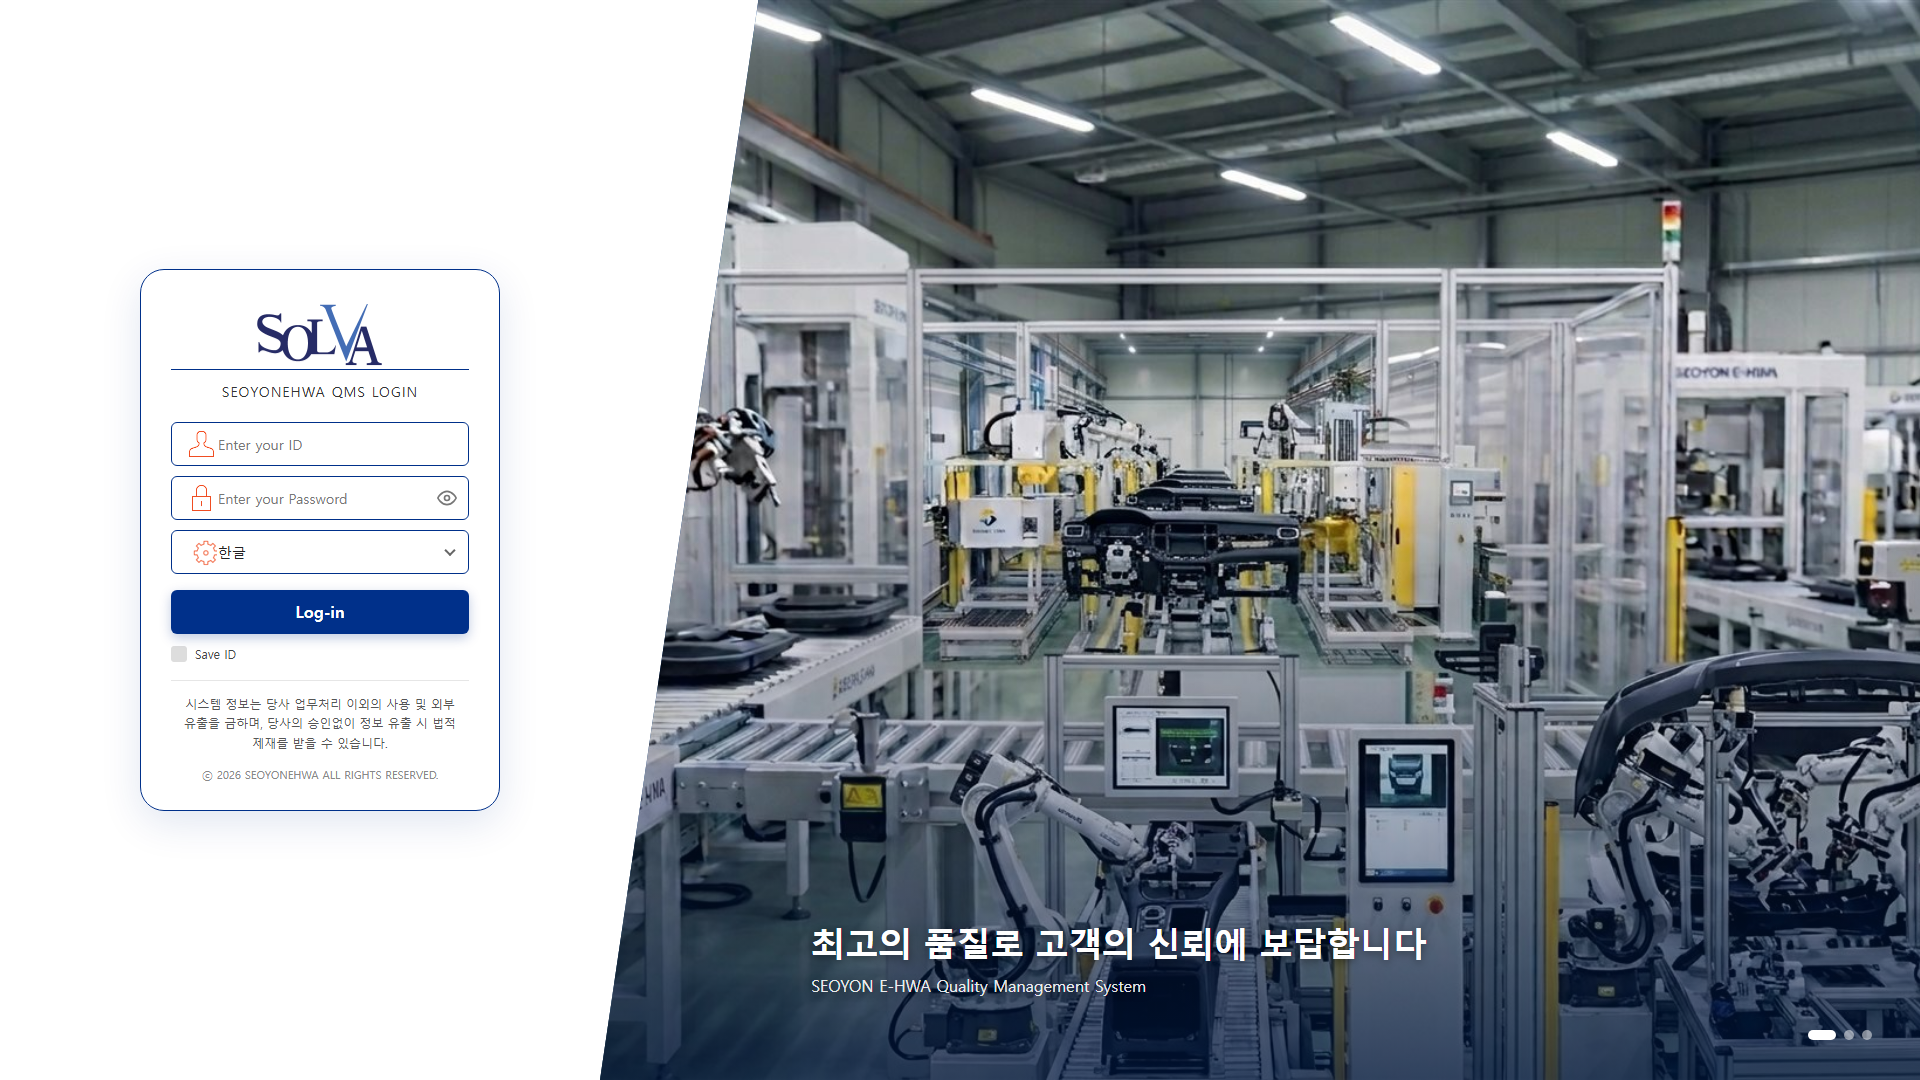
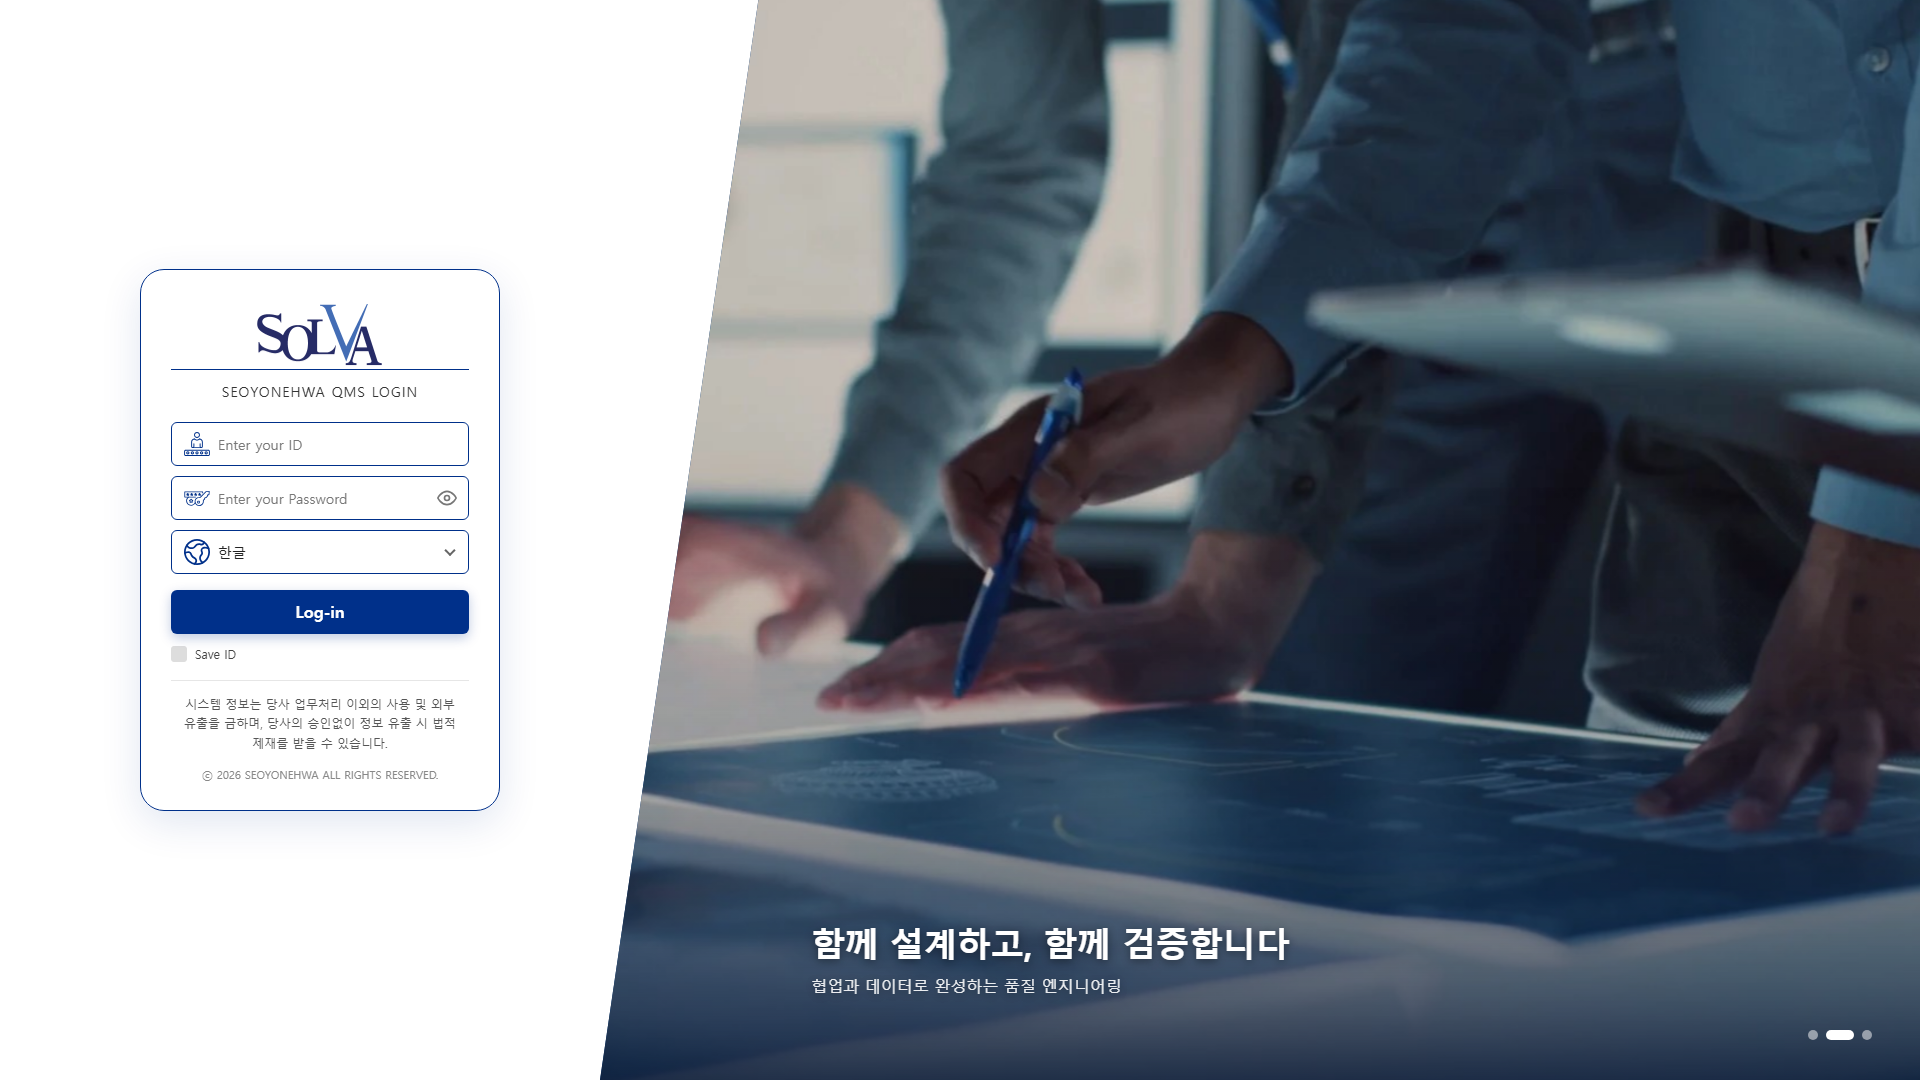
입력창 아이콘을 SVG(id/pw/lang) + CSS mask 방식으로 교체, 시안별 아이콘 색 지정

diff --git a/WebProjects/CommonScripts/Css/Login1.css b/WebProjects/CommonScripts/Css/Login1.css
@@ -13,6 +13,8 @@
     --colorNavy: #00367a;
     --colorOrange: #da5729;
     --slide-fade: 1.2s;        /* 크로스페이드 시간 */
+    --icon-color: #00308a;         /* 입력창 아이콘 색 */
+    --icon-color-focus: #da5729;   /* 입력 중 아이콘 색 */
 }
 
 html {
@@ -270,20 +272,37 @@ fieldset {
             box-shadow: 0 0 0 3px rgba(0, 48, 138, .15);
         }
 
+        /* 입력창 아이콘 : SVG 를 mask 로 씌우고 색은 --icon-color 로 지정 (아이콘 파일 색과 무관) */
+        fieldset .login_input::before {
+            content: "";
+            position: absolute;
+            left: 12px;
+            top: 50%;
+            width: 26px;
+            height: 26px;
+            transform: translateY(-50%);
+            background-color: var(--icon-color);
+            -webkit-mask: var(--icon) center / contain no-repeat;
+            mask: var(--icon) center / contain no-repeat;
+            transition: background-color .2s;
+            pointer-events: none;
+        }
+
+        fieldset .login_input:focus-within::before {
+            background-color: var(--icon-color-focus);
+        }
+
         fieldset .login_input.id {
-            background-image: url(/Images/Login_New_Images/ic_id.png);
+            --icon: url(/Images/Login_New_Images/id.svg);
         }
 
-        fieldset .login_input.pw {
-            background-image: url(/Images/Login_New_Images/ic_pw.png);
-        }
-
+        fieldset .login_input.pw,
         fieldset .login_input.otp {
-            background-image: url(/Images/Login_New_Images/ic_otp.png);
+            --icon: url(/Images/Login_New_Images/pw.svg);
         }
 
         fieldset .login_input.lang {
-            background-image: url(/Images/Login_New_Images/ic_lang.png);   /* ic_selectLang.png 의 톱니 부분만 잘라낸 32x32 아이콘 */
+            --icon: url(/Images/Login_New_Images/lang.svg);
         }
 
             /* 언어 선택 화살표 */

diff --git a/WebProjects/CommonScripts/Css/Login3.css b/WebProjects/CommonScripts/Css/Login3.css
@@ -19,6 +19,8 @@
     --image-w: 58%;             /* 좌측 이미지 영역 폭 */
     --form-w: 380px;            /* 로그인 폼 폭 */
     --slide-fade: 1.5s;
+    --icon-color: #9aa4b8;         /* 입력창 아이콘 색 */
+    --icon-color-focus: #ff6a3d;   /* 입력 중 아이콘 색 */
 }
 
 html {
@@ -298,20 +300,37 @@ fieldset {
             box-shadow: 0 0 0 3px rgba(255, 106, 61, .18);
         }
 
+        /* 입력창 아이콘 : SVG 를 mask 로 씌우고 색은 --icon-color 로 지정 (아이콘 파일 색과 무관) */
+        fieldset .login_input::before {
+            content: "";
+            position: absolute;
+            left: 13px;
+            top: 50%;
+            width: 26px;
+            height: 26px;
+            transform: translateY(-50%);
+            background-color: var(--icon-color);
+            -webkit-mask: var(--icon) center / contain no-repeat;
+            mask: var(--icon) center / contain no-repeat;
+            transition: background-color .2s;
+            pointer-events: none;
+        }
+
+        fieldset .login_input:focus-within::before {
+            background-color: var(--icon-color-focus);
+        }
+
         fieldset .login_input.id {
-            background-image: url(/Images/Login_New_Images/ic_id.png);
+            --icon: url(/Images/Login_New_Images/id.svg);
         }
 
-        fieldset .login_input.pw {
-            background-image: url(/Images/Login_New_Images/ic_pw.png);
-        }
-
+        fieldset .login_input.pw,
         fieldset .login_input.otp {
-            background-image: url(/Images/Login_New_Images/ic_otp.png);
+            --icon: url(/Images/Login_New_Images/pw.svg);
         }
 
         fieldset .login_input.lang {
-            background-image: url(/Images/Login_New_Images/ic_lang.png);
+            --icon: url(/Images/Login_New_Images/lang.svg);
         }
 
             fieldset .login_input.lang::after {

diff --git a/WebProjects/CommonScripts/Css/Login2.css b/WebProjects/CommonScripts/Css/Login2.css
@@ -12,6 +12,8 @@
     --colorNavy: #00367a;
     --colorOrange: #da5729;
     --slide-fade: 1.5s;        /* 크로스페이드 시간 */
+    --icon-color: #6b7a99;         /* 입력창 아이콘 색 */
+    --icon-color-focus: #00308a;   /* 입력 중 아이콘 색 */
 }
 
 html {
@@ -281,20 +283,37 @@ fieldset {
             box-shadow: 0 0 0 3px rgba(0, 48, 138, .12);
         }
 
+        /* 입력창 아이콘 : SVG 를 mask 로 씌우고 색은 --icon-color 로 지정 (아이콘 파일 색과 무관) */
+        fieldset .login_input::before {
+            content: "";
+            position: absolute;
+            left: 12px;
+            top: 50%;
+            width: 26px;
+            height: 26px;
+            transform: translateY(-50%);
+            background-color: var(--icon-color);
+            -webkit-mask: var(--icon) center / contain no-repeat;
+            mask: var(--icon) center / contain no-repeat;
+            transition: background-color .2s;
+            pointer-events: none;
+        }
+
+        fieldset .login_input:focus-within::before {
+            background-color: var(--icon-color-focus);
+        }
+
         fieldset .login_input.id {
-            background-image: url(/Images/Login_New_Images/ic_id.png);
+            --icon: url(/Images/Login_New_Images/id.svg);
         }
 
-        fieldset .login_input.pw {
-            background-image: url(/Images/Login_New_Images/ic_pw.png);
-        }
-
+        fieldset .login_input.pw,
         fieldset .login_input.otp {
-            background-image: url(/Images/Login_New_Images/ic_otp.png);
+            --icon: url(/Images/Login_New_Images/pw.svg);
         }
 
         fieldset .login_input.lang {
-            background-image: url(/Images/Login_New_Images/ic_lang.png);
+            --icon: url(/Images/Login_New_Images/lang.svg);
         }
 
             /* 언어 선택 화살표 */

diff --git a/docs/css/Login1.css b/docs/css/Login1.css
@@ -13,6 +13,8 @@
     --colorNavy: #00367a;
     --colorOrange: #da5729;
     --slide-fade: 1.2s;        /* 크로스페이드 시간 */
+    --icon-color: #00308a;         /* 입력창 아이콘 색 */
+    --icon-color-focus: #da5729;   /* 입력 중 아이콘 색 */
 }
 
 html {
@@ -270,20 +272,37 @@ fieldset {
             box-shadow: 0 0 0 3px rgba(0, 48, 138, .15);
         }
 
+        /* 입력창 아이콘 : SVG 를 mask 로 씌우고 색은 --icon-color 로 지정 (아이콘 파일 색과 무관) */
+        fieldset .login_input::before {
+            content: "";
+            position: absolute;
+            left: 12px;
+            top: 50%;
+            width: 26px;
+            height: 26px;
+            transform: translateY(-50%);
+            background-color: var(--icon-color);
+            -webkit-mask: var(--icon) center / contain no-repeat;
+            mask: var(--icon) center / contain no-repeat;
+            transition: background-color .2s;
+            pointer-events: none;
+        }
+
+        fieldset .login_input:focus-within::before {
+            background-color: var(--icon-color-focus);
+        }
+
         fieldset .login_input.id {
-            background-image: url(../images/ic_id.png);
+            --icon: url(../images/id.svg);
         }
 
-        fieldset .login_input.pw {
-            background-image: url(../images/ic_pw.png);
-        }
-
+        fieldset .login_input.pw,
         fieldset .login_input.otp {
-            background-image: url(../images/ic_otp.png);
+            --icon: url(../images/pw.svg);
         }
 
         fieldset .login_input.lang {
-            background-image: url(../images/ic_lang.png);   /* ic_selectLang.png 의 톱니 부분만 잘라낸 32x32 아이콘 */
+            --icon: url(../images/lang.svg);
         }
 
             /* 언어 선택 화살표 */

diff --git a/docs/css/Login3.css b/docs/css/Login3.css
@@ -19,6 +19,8 @@
     --image-w: 58%;             /* 좌측 이미지 영역 폭 */
     --form-w: 380px;            /* 로그인 폼 폭 */
     --slide-fade: 1.5s;
+    --icon-color: #9aa4b8;         /* 입력창 아이콘 색 */
+    --icon-color-focus: #ff6a3d;   /* 입력 중 아이콘 색 */
 }
 
 html {
@@ -298,20 +300,37 @@ fieldset {
             box-shadow: 0 0 0 3px rgba(255, 106, 61, .18);
         }
 
+        /* 입력창 아이콘 : SVG 를 mask 로 씌우고 색은 --icon-color 로 지정 (아이콘 파일 색과 무관) */
+        fieldset .login_input::before {
+            content: "";
+            position: absolute;
+            left: 13px;
+            top: 50%;
+            width: 26px;
+            height: 26px;
+            transform: translateY(-50%);
+            background-color: var(--icon-color);
+            -webkit-mask: var(--icon) center / contain no-repeat;
+            mask: var(--icon) center / contain no-repeat;
+            transition: background-color .2s;
+            pointer-events: none;
+        }
+
+        fieldset .login_input:focus-within::before {
+            background-color: var(--icon-color-focus);
+        }
+
         fieldset .login_input.id {
-            background-image: url(../images/ic_id.png);
+            --icon: url(../images/id.svg);
         }
 
-        fieldset .login_input.pw {
-            background-image: url(../images/ic_pw.png);
-        }
-
+        fieldset .login_input.pw,
         fieldset .login_input.otp {
-            background-image: url(../images/ic_otp.png);
+            --icon: url(../images/pw.svg);
         }
 
         fieldset .login_input.lang {
-            background-image: url(../images/ic_lang.png);
+            --icon: url(../images/lang.svg);
         }
 
             fieldset .login_input.lang::after {

diff --git a/docs/css/Login2.css b/docs/css/Login2.css
@@ -12,6 +12,8 @@
     --colorNavy: #00367a;
     --colorOrange: #da5729;
     --slide-fade: 1.5s;        /* 크로스페이드 시간 */
+    --icon-color: #6b7a99;         /* 입력창 아이콘 색 */
+    --icon-color-focus: #00308a;   /* 입력 중 아이콘 색 */
 }
 
 html {
@@ -281,20 +283,37 @@ fieldset {
             box-shadow: 0 0 0 3px rgba(0, 48, 138, .12);
         }
 
+        /* 입력창 아이콘 : SVG 를 mask 로 씌우고 색은 --icon-color 로 지정 (아이콘 파일 색과 무관) */
+        fieldset .login_input::before {
+            content: "";
+            position: absolute;
+            left: 12px;
+            top: 50%;
+            width: 26px;
+            height: 26px;
+            transform: translateY(-50%);
+            background-color: var(--icon-color);
+            -webkit-mask: var(--icon) center / contain no-repeat;
+            mask: var(--icon) center / contain no-repeat;
+            transition: background-color .2s;
+            pointer-events: none;
+        }
+
+        fieldset .login_input:focus-within::before {
+            background-color: var(--icon-color-focus);
+        }
+
         fieldset .login_input.id {
-            background-image: url(../images/ic_id.png);
+            --icon: url(../images/id.svg);
         }
 
-        fieldset .login_input.pw {
-            background-image: url(../images/ic_pw.png);
-        }
-
+        fieldset .login_input.pw,
         fieldset .login_input.otp {
-            background-image: url(../images/ic_otp.png);
+            --icon: url(../images/pw.svg);
         }
 
         fieldset .login_input.lang {
-            background-image: url(../images/ic_lang.png);
+            --icon: url(../images/lang.svg);
         }
 
             /* 언어 선택 화살표 */
